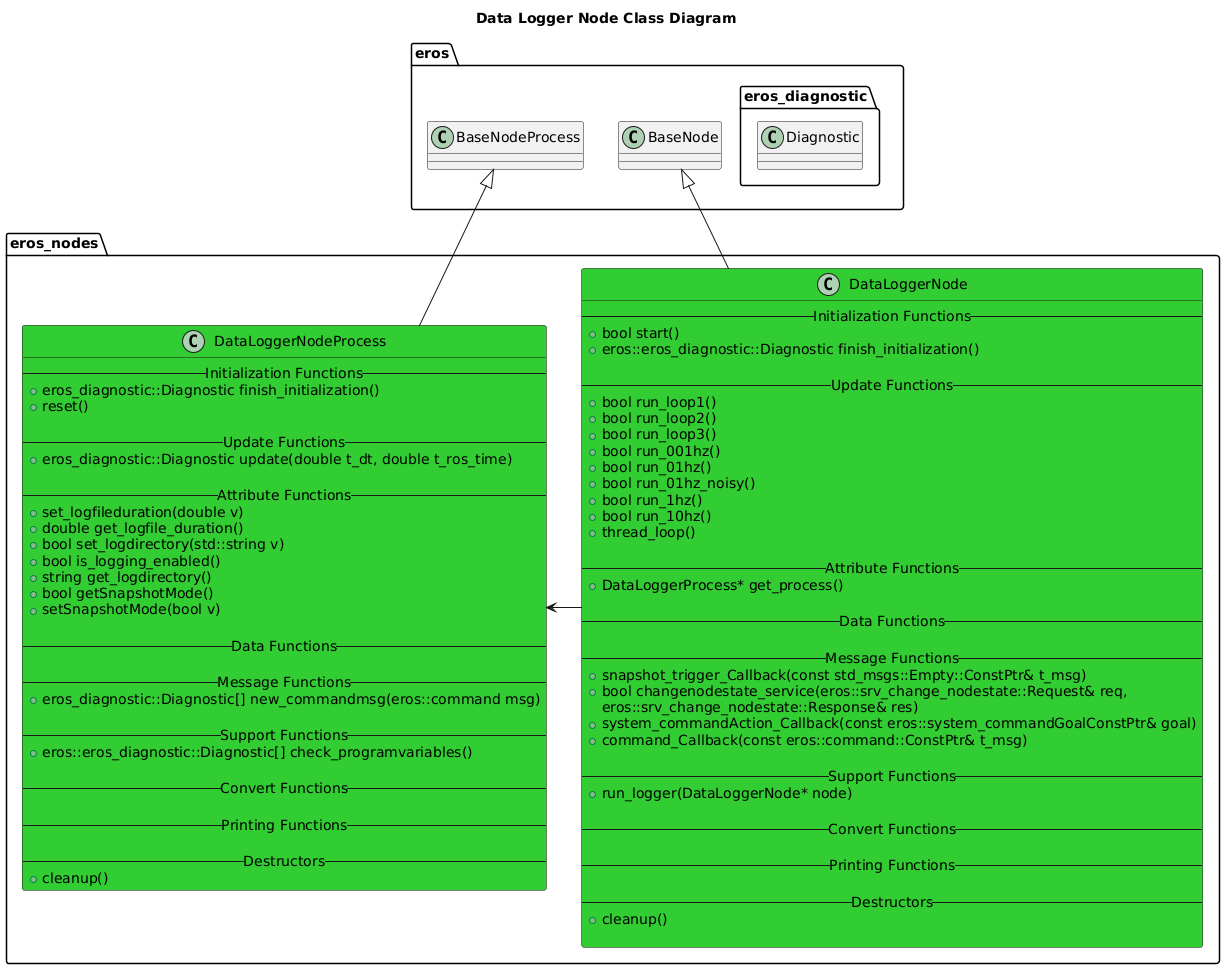
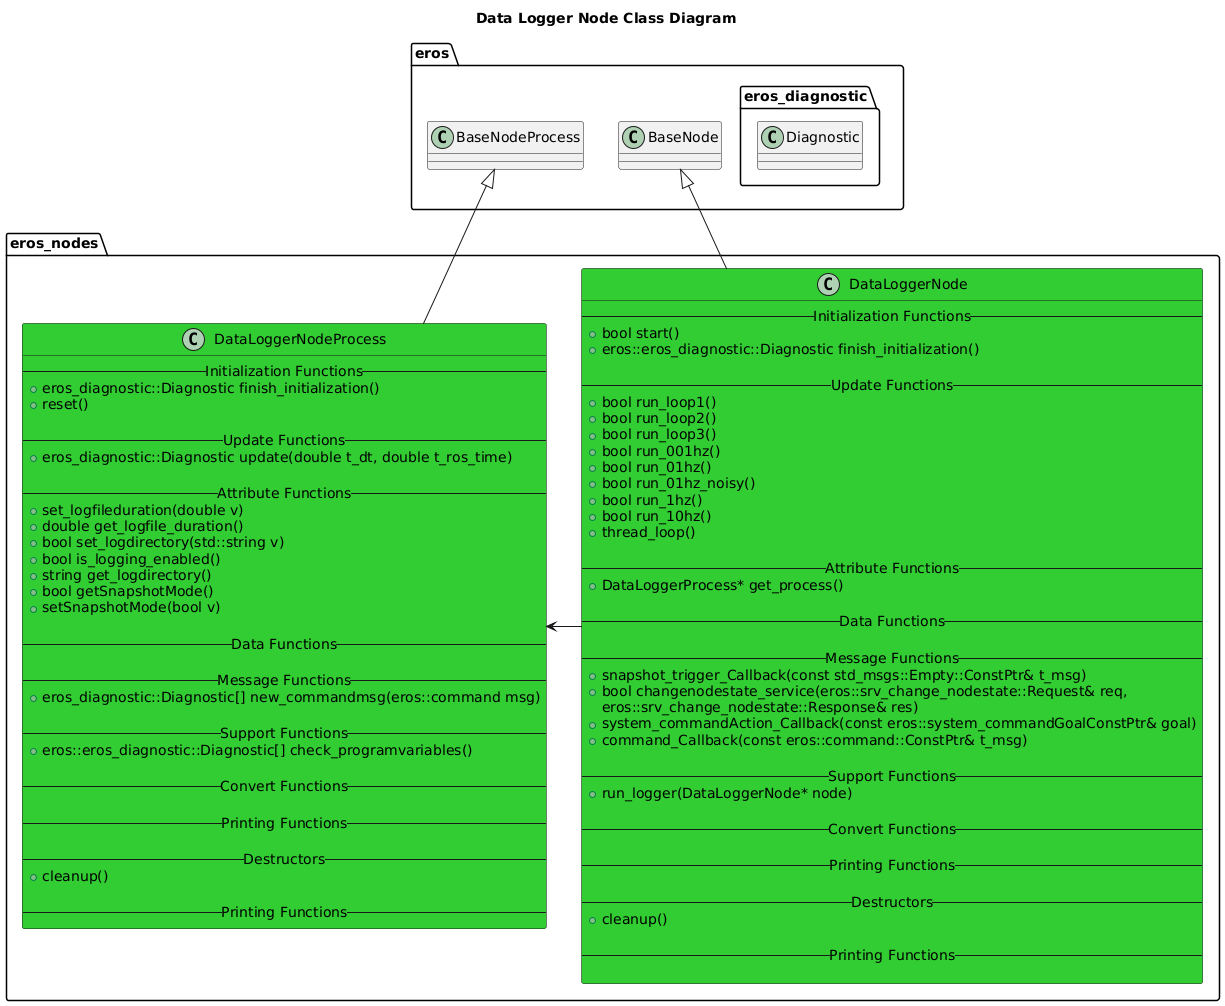
Updates

diff --git a/nodes/DiagnosticNode/include/DiagnosticNode.h b/nodes/DiagnosticNode/include/DiagnosticNode.h
@@ -17,27 +17,9 @@ namespace eros_nodes {
 class DiagnosticNode : public eros::BaseNode
 {
    public:
+    DiagnosticNode();
+    ~DiagnosticNode();
     // Constants
-
-    // Enums
-
-    // Structs
-
-    // Initialization Functions
-
-    // Update Functions
-
-    // Attribute Functions
-
-    // Utility Functions
-
-    // Support Functions
-
-    // Message Functions
-
-    // Destructors
-
-    // TODO
     /*! \brief The base name of the Node.*/
     const std::string BASE_NODE_NAME = "diagnostic_node";
 
@@ -51,7 +33,7 @@ class DiagnosticNode : public eros::BaseNode
     const uint16_t BUILD_NUMBER = 1;
 
     /*! \brief A Description of the Firmware.*/
-    const std::string FIRMWARE_DESCRIPTION = "Latest Rev: 9-Feb-2025";
+    const std::string FIRMWARE_DESCRIPTION = "Latest Rev: 10-Feb-2025";
 
     /*! \brief What System this Node falls under.*/
     const eros::System::MainSystem DIAGNOSTIC_SYSTEM = eros::System::MainSystem::ROVER;
@@ -61,13 +43,16 @@ class DiagnosticNode : public eros::BaseNode
 
     /*! \brief What Component this Node falls under.*/
     const eros::System::Component DIAGNOSTIC_COMPONENT = eros::System::Component::DIAGNOSTIC;
-    DiagnosticNode();
-    ~DiagnosticNode();
-    DiagnosticNodeProcess* get_process() {
-        return process;
-    }
+
+    // Enums
+
+    // Structs
+
+    // Initialization Functions
     bool start();
     eros::eros_diagnostic::Diagnostic finish_initialization();
+
+    // Update Functions
     bool run_loop1();
     bool run_loop2();
     bool run_loop3();
@@ -77,9 +62,18 @@ class DiagnosticNode : public eros::BaseNode
     bool run_1hz();
     bool run_10hz();
     void thread_loop();
-    void cleanup();
 
+    // Attribute Functions
+    DiagnosticNodeProcess* get_process() {
+        return process;
+    }
+
+    // Utility Functions
+
+    // Support Functions
     eros::eros_diagnostic::Diagnostic rescan_nodes();
+
+    // Message Functions
     bool changenodestate_service(eros::srv_change_nodestate::Request& req,
                                  eros::srv_change_nodestate::Response& res);
     void system_commandAction_Callback(const eros::system_commandGoalConstPtr& goal);
@@ -87,6 +81,11 @@ class DiagnosticNode : public eros::BaseNode
                                     eros::srv_get_diagnostics::Response& res);
     void command_Callback(const eros::command::ConstPtr& t_msg);
     void diagnostic_Callback(const eros::diagnostic::ConstPtr& t_msg);
+
+    // Destructors
+    void cleanup();
+
+    // Printing Functions
 
    private:
     eros::eros_diagnostic::Diagnostic read_launchparameters();

diff --git a/nodes/DiagnosticNode/include/DiagnosticNodeProcess.h b/nodes/DiagnosticNode/include/DiagnosticNodeProcess.h
@@ -9,28 +9,13 @@ namespace eros_nodes {
 class DiagnosticNodeProcess : public eros::BaseNodeProcess
 {
    public:
+    DiagnosticNodeProcess();
+    ~DiagnosticNodeProcess();
     // Constants
 
     // Enums
 
     // Structs
-
-    // Initialization Functions
-
-    // Update Functions
-
-    // Attribute Functions
-
-    // Utility Functions
-
-    // Support Functions
-
-    // Message Functions
-
-    // Destructors
-
-    // TODO
-
     /*! \struct DiagnosticTypeAggregate
         \brief DiagnosticTypeAggregate Container
         Container to aggregate Diagnostic Information.
@@ -43,22 +28,36 @@ class DiagnosticNodeProcess : public eros::BaseNodeProcess
         uint64_t update_count;
         std::map<std::string, eros::eros_diagnostic::Diagnostic> diag_list;
     };
-    DiagnosticNodeProcess();
-    ~DiagnosticNodeProcess();
+
+    // Initialization Functions
     eros::eros_diagnostic::Diagnostic finish_initialization();
     void reset();
+
+    // Update Functions
     eros::eros_diagnostic::Diagnostic update(double t_dt, double t_ros_time);
-    bool new_external_diagnostic(eros::eros_diagnostic::Diagnostic diag);
-    std::vector<eros::eros_diagnostic::Diagnostic> new_commandmsg(eros::command msg);
+
+    // Attribute Functions
+    eros::eros_diagnostic::Diagnostic get_worst_diagnostic(
+        eros::eros_diagnostic::DiagnosticType type);
+
+    // Utility Functions
+
+    // Support Functions
     std::vector<eros::eros_diagnostic::Diagnostic> check_programvariables();
     eros::eros_diagnostic::Diagnostic update_topiclist(
         std::vector<std::string>& new_diagnostic_topics_to_subscribe);
-    eros::eros_diagnostic::Diagnostic get_worst_diagnostic(
-        eros::eros_diagnostic::DiagnosticType type);
+
+    // Message Functions
+    bool new_external_diagnostic(eros::eros_diagnostic::Diagnostic diag);
+    std::vector<eros::eros_diagnostic::Diagnostic> new_commandmsg(eros::command msg);
+
+    // Destructors
     void cleanup() {
         base_cleanup();
         return;
     }
+
+    // Printing Functions
     std::string pretty();
 
    private:

diff --git a/nodes/DataLoggerNode/include/DataLoggerNode.h b/nodes/DataLoggerNode/include/DataLoggerNode.h
@@ -34,10 +34,10 @@ class DataLoggerNode : public eros::BaseNode
     const uint16_t MINOR_RELEASE_VERSION = 2;
 
     /*! \brief The Build Number of the Node.*/
-    const uint16_t BUILD_NUMBER = 0;
+    const uint16_t BUILD_NUMBER = 1;
 
     /*! \brief A Description of the Firmware.*/
-    const std::string FIRMWARE_DESCRIPTION = "Latest Rev: 8-Feb-2025";
+    const std::string FIRMWARE_DESCRIPTION = "Latest Rev: 10-Feb-2025";
 
     /*! \brief What System this Node falls under.*/
     const eros::System::MainSystem DIAGNOSTIC_SYSTEM = eros::System::MainSystem::ROVER;
@@ -86,6 +86,8 @@ class DataLoggerNode : public eros::BaseNode
 
     // Destructors
     void cleanup();
+
+    // Printing Functions
 
    private:
     eros::eros_diagnostic::Diagnostic read_launchparameters();

diff --git a/nodes/SystemMonitor/node/SystemMonitorProcess.h b/nodes/SystemMonitor/node/SystemMonitorProcess.h
@@ -43,6 +43,8 @@ class SystemMonitorProcess : public eros::BaseNodeProcess
 
     // Destructors
 
+    // Printing Functions
+
     // TODO
     const bool DEBUG_MODE = false;
     /*! \brief How long in seconds before marking a Node as Timed Out.*/

diff --git a/nodes/MasterNode/include/MasterNode.h b/nodes/MasterNode/include/MasterNode.h
@@ -44,6 +44,8 @@ class MasterNode : public eros::BaseNode
 
     // Destructors
 
+    // Printing Functions
+
     // TODO
     /*! \brief The base name of the Node.*/
     const std::string BASE_NODE_NAME = "master_node";

diff --git a/nodes/SafetyNode/include/SafetyNode.h b/nodes/SafetyNode/include/SafetyNode.h
@@ -36,6 +36,8 @@ class SafetyNode : public eros::BaseNode
 
     // Destructors
 
+    // Printing Functions
+
     // TODO
     /*! \brief The base name of the Node.*/
     const std::string BASE_NODE_NAME = "safety_node";

diff --git a/nodes/DataLoggerNode/include/DataLoggerProcess.h b/nodes/DataLoggerNode/include/DataLoggerProcess.h
@@ -74,6 +74,8 @@ class DataLoggerProcess : public eros::BaseNodeProcess
         return;
     }
 
+    // Printing Functions
+
    private:
     std::string log_directory;
     bool log_directory_available;

diff --git a/nodes/SafetyNode/include/SafetyNodeProcess.h b/nodes/SafetyNode/include/SafetyNodeProcess.h
@@ -70,6 +70,8 @@ class SafetyNodeProcess : public eros::BaseNodeProcess
 
     // Destructors
 
+    // Printing Functions
+
     // TODO
 
     eros::eros_diagnostic::Diagnostic finish_initialization();

diff --git a/nodes/SnapshotNode/include/SnapshotProcess.h b/nodes/SnapshotNode/include/SnapshotProcess.h
@@ -45,6 +45,8 @@ class SnapshotProcess : public eros::BaseNodeProcess
 
     // Destructors
 
+    // Printing Functions
+
     // TODO
     const double HOLDCOMPLETE_TIME = 5.0;
     enum class Mode {

diff --git a/nodes/MasterNode/include/MasterNodeProcess.h b/nodes/MasterNode/include/MasterNodeProcess.h
@@ -29,6 +29,8 @@ class MasterNodeProcess : public eros::BaseNodeProcess
 
     // Destructors
 
+    // Printing Functions
+
     // TODO
     MasterNodeProcess();
     ~MasterNodeProcess();

diff --git a/nodes/SystemMonitor/node/SystemMonitorNode.h b/nodes/SystemMonitor/node/SystemMonitorNode.h
@@ -36,6 +36,8 @@ class SystemMonitorNode : public eros::BaseNode
 
     // Destructors
 
+    // Printing Functions
+
     // TODO
 
     /*! \brief The base name of the Node.*/

diff --git a/nodes/SnapshotNode/include/SnapshotNode.h b/nodes/SnapshotNode/include/SnapshotNode.h
@@ -37,6 +37,8 @@ class SnapshotNode : public eros::BaseNode
 
     // Destructors
 
+    // Printing Functions
+
     // TODO
 
     /*! \brief The base name of the Node.*/
